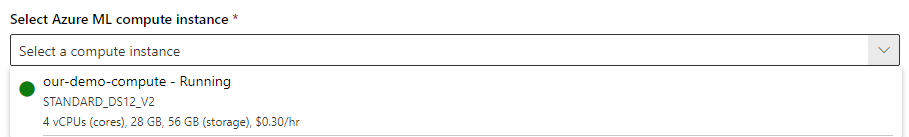
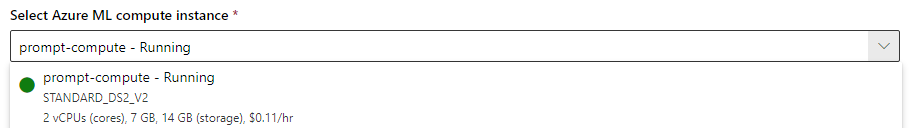
delete flow connection and runtime steps.

diff --git a/website/docs/azure-prompt-flow/portal/lab5-chatbot-with-your-data/lab5-chatbot-with-your-data.md b/website/docs/azure-prompt-flow/portal/lab5-chatbot-with-your-data/lab5-chatbot-with-your-data.md
@@ -15,6 +15,11 @@ We'll be using the following tools:
  
 1.	Open the Flow page, by clicking **Prompt Flow**.
 2.  Close the **Chat** dialog pane.
+
+![](/img/tutorial/00-close-chat-window.png)
+
+*Add Embedding tool*
+
 3.	On the Flow toolbar, click on **More tools**.  Then select the **Embedding tool**.
 
 ![](/img/tutorial/flow-tools.png)
@@ -29,23 +34,30 @@ We'll be using the following tools:
  
 9.	Click the **Save** button
 
+*Add Vector Index Lookup tool*
 
 10.	On the Flow toolbar, click on **More tools**.  Then select the Vector Index Lookup tool.  This will generate a new **Vector Index Lookup** section at the bottom of the flow.
 11.	Enter **Name** for the node (e.g. search_vector_index).
 12.	Click the **Add** button
-13.	For **Path**, copy and paste the Datastore URI you retrieve earlier for the vector index.
+13.	For **Path**, copy and paste the Datastore URI you retrieve earlier for the vector index (e.g. `azureml://subscriptions/...` ).
 14.	Select the embedding output as the **query** field (e.g. `${embed_question.output}` ).
 15.	Leave default value for **top_k**.
 
 ![](/img/tutorial/search-vector.png)
  
 16.	Click the **Save** button
+
+*Add Prompt tool*
+
 17.	On the Flow toolbar, click on **Prompt** tool. This will generate a new Prompt section at the bottom of the flow.
+
+![](/img/tutorial/00-prompt-tool.png)
+
 18.	Enter a **Name** for the node (e.g. generate_prompt).  Then click the **Add** button.
 19.	Copy the following text in the Prompt textbox:
 ```shell
 system:
-You are an AI system designed to answer questions. When presented with a scenario, you must reply with accuracy to inquirers' inquiries.  If there is ever a situation where you are unsure of the potential answers, simply respond with "I don't know.  
+You are an AI system designed to answer questions. When presented with a scenario, you must reply with accuracy to inquirers' inquiries.  If there is ever a situation where you are unsure of the answer, simply respond with "I don't know".    
 
 context: {{contexts}}
 
@@ -59,7 +71,7 @@ assistant:
 user:
 {{question}}
 ```
-20.	Click the **Validate and parse input** button to generate the input field for the prompt.
+20.	Click the **Validate and parse input** button to generate the input fields for the prompt.
 21.	Select the `${inputs.chat_history}` for **chat_history**
 22.	For **contexts**, select `${Search_Vector_Index.output}`.
 23.	Select `${inputs.question}` for the **question** field.
@@ -71,9 +83,11 @@ user:
 
 ![](/img/tutorial/chat-node.png)
  
-26.	Under the **Flow** pane, scroll up to the **chat** section
+26.	Under the **Flow** pane, scroll up to the **chat** section.  Delete the existing text in the **Prompt** textbox.  
  
 ![](/img/tutorial/chat-node-input.png)
+
+*Update Chat node*
 
 27.	Copy and paste the following text in the Prompt textbox.  This specifies the output to display to the user:
 
@@ -88,11 +102,12 @@ user:
 
 Now that you have updated the prompt flow logic to you use your own data and process the output, let’s see if the Chat will generate more relevant information pertaining to our Contoso dental data.  First let clear the chat history, so the question is not base not the prior responses from our OpenAI model.
 
-1. To clear the prior chat history, click on the dialog icon next to the input textbox.
+1. Click on the **Chat** icon on the top right corner of the page.
+
+2. To clear the prior chat history, click on the dialog icon next to the input textbox.
 
 ![](/img/tutorial/00-clear-chat-history.png)
 
-2. Click on the Chat button to test the new flow
 3.	Enter the following question:
 ```shell
 what is the dental hospital address?
@@ -126,16 +141,21 @@ My tooth is aching really bad.  What could be the cause?
 Always an LLM model may be eager to provide the user with a response.  It’s important to make sure that the model is not providing response to questions that are out of scope with subject domain of your data.  Another issue is the response may provide information that is not factual and, in some cases, even provide reference to the answer that appears legitimate.  This is a risk, because the information provided to the user can have negative or harmful consequences.
 
 Grounding test
-1.	On **generate_prompt** section of the Flow pane, click on **Generate variants^^ button. 
+1.	On the **generate_prompt** section of the Flow pane, click on **Generate variants** button. 
 2.	Select **Connection** for your Azure OpenAI 
-3.	Next, select the **Deployment** name.
- 
-4.	Click **Submit** button.  These will generate a **Variant_1** prompt section.
-5.	In the prompt textbox, copy and paste the following text:
+3.	Next, select the **Deployment** name (e.g. gpt-35-turbo).
+4.	Click **Submit** button.  
+
+![](/img/tutorial/00-generate-variant.png)
+
+5. On the **generate_prompt** section, click on the **Show variants** button.
+This will expand the section with **Variant_0** generated and **Variant_1** generated.  The **Variant_0** is the original prompt you created.  The **Variant_1** is the new prompt generated by the LLM model. 
+
+6.	In the prompt textbox for **Variant_1**, copy and paste the following text.  
 
 ```shell
-System: 
-As an AI Assistant Prompt Engineer, I need you to generate a response to the user's question.  Please cite your sources.
+system:
+You are an AI dental assistant designed to answer questions.I need you to generate a response to the user's question based information only from the vector index lookup. I want a well-informed and polite response. Please provide a unique, honest and relevant answer. If you are not sure about the answer, kindly respond with "I don't know."
 
 context: {{contexts}}
 
@@ -149,8 +169,11 @@ assistant:
 user:
 {{question}}
 ```
-6.	Click the **Save** button
-7.	Now, enter the following question:
+7. Click on the **Set as default** button to set the new prompt as the default prompt for the **generate_prompt** node.
+8.	Click the **Save** button
+9.  Click on the **Chat** icon on the top right corner of the page.
+10. Clear the prior chat history by click on the dialog icon next to the input textbox.
+11.	Now, enter the following question:
 ```shell
 Which supplements are good for teeth?
 ```

diff --git a/website/docs/azure-prompt-flow/portal/lab6-evaluate chatbot/lab6-evaluate-chatbot.md b/website/docs/azure-prompt-flow/portal/lab6-evaluate chatbot/lab6-evaluate-chatbot.md
@@ -27,10 +27,13 @@ git clone https://github.com/Azure-Samples/rai-prompt-flow-workshop.git
 
 4.	On the **Batch run & Evaluate** page, select the **Next** button
 4.	On the Batch run settings page, click on **Add new data** link for the **Data** field.  
-5.	Enter **Name** on the Add new data pane (e.g. Contoso-Dental). Then **Browse** to the lab repo directory and select the **contoso-dental.csv** file from the */rai-prompt-flow-workshop/data* folder.   
-6.	Click on the **Add** button.   A preview of the top 5 rows of the data should be displayed at the bottom of the page.
-7.	Under Input mapping, enter the open and close brackets **[]** for the value of **chat_history**.
-8.	Click in the Value textbox for the **question** field and enter `${data.question}`.
+5.	Enter **Name** on the Add new data pane (e.g. Contoso-Dental). 
+
+6.  Select **Upload from local folder**. Then **Browse** to the lab repo */rai-prompt-flow-workshop/data* folder. 
+7.  Click on the **Upload** button.  Then **Upload** button again on the browser pop-up pane accepting *This will upload all file from "data"..."
+8.	Click on the **Add** button.   A preview of the top 5 rows of the data should be displayed at the bottom of the page.
+9.	Under Input mapping, enter the open and close brackets **[]** for the value of **chat_history**.
+10.	Click in the Value textbox for the **question** field and enter `${data.question}`.
 
 ![](/img/tutorial/evaluate-input-flow.png)
  
@@ -56,7 +59,7 @@ gpt_groundedness,gpt_retrieval_score,gpt_relevance
 ![](/img/tutorial/pf-rag-eval-input.png)
 
 18.	On the right-hand side of the page, scroll down to the bottom of the page.
-19.	Select your AzureOpenAI connection name for the **Connection** fields.
+19.	Select your AzureOpenAI connection name (e.g. azure-openai-conn) for the **Connection** fields.
 20.	The **Deployment name / Model** should automatically population the your AzureOpenAI deployment name.
  
  ![](/img/tutorial/evaluate-connection.png)

diff --git a/website/docs/azure-prompt-flow/portal/lab3-add-flow-connections/lab3-add-flow-connection.md b/website/docs/azure-prompt-flow/portal/lab3-add-flow-connections/lab3-add-flow-connection.md
@@ -22,6 +22,7 @@ First, let's confirm the Azure OpenAI API connection your created in the preview
 
 1.	Select the **Prompt Flow** tab, on the left-hand side of the navigation bar.
 2.	Click on the **Connections** tab on the Prompt Flow page
+3. Confirm that the **azure-openai-conn** connection is listed.  
 
 ![](/img/tutorial/00-confirm-flow-connection.png)
 
@@ -34,15 +35,9 @@ To create runtime environment, complete the following steps:
 
 1.	Click on the **Runtime** tab; than click **Create** button
 2.	Enter a **Runtime name**
-3.	Select on existing compute under the **Select Azure ML compute instance** drop-down menu.  If there’s no existing compute instance, click on **Create Azure ML compute instance**
-* Enter a **Compute name**
-* Select **CPU** for the **Virtual machine type**
-* Select **Standard_D12_v2** for the **Virtual machine size**
-* Click **Review + create** button.  Then click **Create** button.
+3.	Select the **prompt-compute** compute under the **Select Azure ML compute instance** drop-down menu.  
 
 ![](/img/tutorial/00-runtime-compute-running.png)
-
-Wait for the compute instance to be created.  When the compute status is **Running**, you can proceed to the next step.
 
 4.	For **Custom Application**, select the **New** option
 
@@ -50,4 +45,4 @@ Wait for the compute instance to be created.  When the compute status is **Runni
 
 6.	Click on **Create**.  Then click **Confirm**, for auto compute restart.
 
-7.  Wait for the runtime status to be **Running**.  You can keep refreshing the page to check the status.
+7.  Wait ~3 minutes for the runtime status to be **Running**.  You can keep refreshing the page to check the status.

diff --git a/website/docs/azure-prompt-flow/portal/lab4-chatbot-template/lab4-create-chatbot-template.md b/website/docs/azure-prompt-flow/portal/lab4-chatbot-template/lab4-create-chatbot-template.md
@@ -14,9 +14,7 @@ We will learn how to create a basic chat agent that interacts with prompts power
 This displays a gallery of different types of flows and evaluation templates you can clone.  
 
 2.	Under **Chat Flow**, click on the Create button.
-
 3.	Enter a **Folder name** on the Create a new file blade (e.g contoso-dental-chat).
-
 4.	Press **Create**.
 
 ## Input Node
@@ -25,7 +23,7 @@ On flow page, Prompt generates the Input fields need for the chat input node.  T
 
 *Add Azure OpenAI to power the chat*
 
-1.	Under the **Connection** drop-down menu, select the name for the *Azure OpenAI connection* created earlier.
+1. In the Chat section, under **Connection** drop-down menu, select the name for the *Azure OpenAI connection* you created earlier.
 
 ![](/img/tutorial/00-add-chat-gpt-conn.png)
 
@@ -67,7 +65,7 @@ My molar tooth is aching so bad.  What could be the cause?
 4.	Finally, to test if the chat can provide specific information about a specific dental office, enter:
 
 ```shell
-What is the address of your dental clinic?
+what is the dental hospital address?
 ```
 
 ![](/img/tutorial/dental-address.png)
